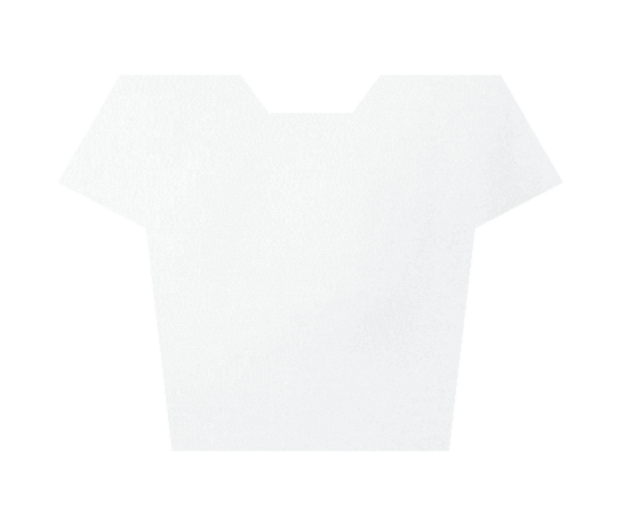
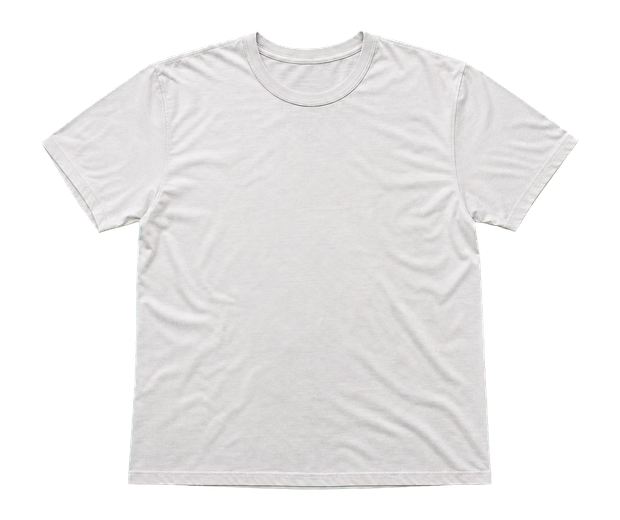
use realistic shirt asset

diff --git a/game.js b/game.js
@@ -10,6 +10,10 @@ const modalTitle = document.querySelector("#modalTitle");
 const modalMessage = document.querySelector("#modalMessage");
 const leaderboardOverlay = document.querySelector("#leaderboardOverlay");
 const leaderboardRows = document.querySelector("#leaderboardRows");
+const leaderboardMessage = document.querySelector("#leaderboardMessage");
+const leaderboardForm = document.querySelector("#leaderboardForm");
+const playerNameInput = document.querySelector("#playerName");
+const leaderboardSubmitBtn = document.querySelector("#leaderboardSubmitBtn");
 const leaderboardReturnBtn = document.querySelector("#leaderboardReturnBtn");
 const pedalButtons = [...document.querySelectorAll("[data-pedal]")];
 
@@ -98,62 +102,58 @@ const clamp = (value, min, max) => Math.max(min, Math.min(max, value));
 const lerp = (a, b, t) => a + (b - a) * t;
 const dist = (a, b) => Math.hypot(a.x - b.x, a.y - b.y);
 
-const leaderboardNames = [
-  "陈志强",
-  "王秀兰",
-  "刘建国",
-  "李桂英",
-  "张伟",
-  "赵丽华",
-  "周明远",
-  "吴春梅",
-  "孙国庆",
-  "郑晓芳",
-  "冯文斌",
-  "褚慧敏",
-  "蒋德胜",
-  "沈玉兰",
-  "韩志勇",
-  "杨秋霞",
-  "朱海峰",
-  "何秀珍",
-];
+const leaderboardUrl = "./data/leaderboard.json";
+let leaderboard = [];
+let submittedEntryId = null;
 
-function shuffled(items) {
-  const result = [...items];
-  for (let i = result.length - 1; i > 0; i -= 1) {
-    const j = Math.floor(Math.random() * (i + 1));
-    [result[i], result[j]] = [result[j], result[i]];
-  }
-  return result;
+function normalizeLeaderboard(data) {
+  const entries = Array.isArray(data?.entries) ? data.entries : [];
+  return entries
+    .filter(
+      (entry) =>
+        entry &&
+        typeof entry.id === "string" &&
+        typeof entry.name === "string" &&
+        Number.isFinite(entry.score),
+    )
+    .map((entry) => ({
+      id: entry.id.slice(0, 80),
+      name: entry.name.trim().slice(0, 20) || "匿名用户",
+      score: Math.max(0, Math.round(entry.score)),
+      createdAt: typeof entry.createdAt === "string" ? entry.createdAt : "",
+    }))
+    .sort((a, b) => b.score - a.score || a.createdAt.localeCompare(b.createdAt))
+    .slice(0, 100);
 }
 
-function makeLeaderboard(playerScore) {
-  const score = Math.max(0, Math.round(playerScore));
-  const maxOpponentScore = Math.max(0, score - 1);
-  const opponents = shuffled(leaderboardNames)
-    .slice(0, 9)
-    .map((name) => ({
-      name,
-      score: maxOpponentScore ? Math.floor(Math.random() * (maxOpponentScore + 1)) : 0,
-    }))
-    .sort((a, b) => b.score - a.score);
+async function loadLeaderboard() {
+  const response = await fetch(`${leaderboardUrl}?t=${Date.now()}`, { cache: "no-store" });
+  if (!response.ok) throw new Error(`读取排行榜失败（${response.status}）`);
+  return normalizeLeaderboard(await response.json());
+}
 
-  return [
-    { rank: 1, name: "当前玩家", score, player: true },
-    ...opponents.map((entry, index) => ({ ...entry, rank: index + 2, player: false })),
-  ];
+async function saveLeaderboard(entries) {
+  const response = await fetch(leaderboardUrl, {
+    method: "PUT",
+    headers: { "Content-Type": "application/json" },
+    body: JSON.stringify({ version: 1, updatedAt: new Date().toISOString(), entries }),
+  });
+  if (!response.ok) throw new Error(`保存排行榜失败（${response.status}）`);
+}
+
+function scoreQualifies(entries, score) {
+  return entries.length < 100 || score > entries[entries.length - 1].score;
 }
 
 function renderLeaderboard(rows) {
   const fragment = document.createDocumentFragment();
-  for (const row of rows) {
+  rows.forEach((row, index) => {
     const item = document.createElement("li");
-    item.className = `leaderboard-row${row.player ? " player" : ""}`;
+    item.className = `leaderboard-row${row.id === submittedEntryId ? " player" : ""}`;
 
     const rank = document.createElement("span");
     rank.className = "leaderboard-rank";
-    rank.textContent = row.rank === 1 ? "第1名" : String(row.rank);
+    rank.textContent = index === 0 ? "第1名" : String(index + 1);
 
     const name = document.createElement("span");
     name.textContent = row.name;
@@ -163,7 +163,7 @@ function renderLeaderboard(rows) {
 
     item.append(rank, name, score);
     fragment.append(item);
-  }
+  });
   leaderboardRows.replaceChildren(fragment);
 }
 
@@ -355,13 +355,76 @@ function hideModal() {
   nextBtn.hidden = true;
 }
 
-function showLeaderboard() {
-  renderLeaderboard(makeLeaderboard(game.score));
+async function showLeaderboard() {
   modalOverlay.classList.add("hidden");
   modalOverlay.setAttribute("aria-hidden", "true");
   leaderboardOverlay.setAttribute("aria-hidden", "false");
   leaderboardOverlay.classList.remove("hidden");
-  leaderboardReturnBtn.focus();
+  leaderboardRows.replaceChildren();
+  leaderboardForm.hidden = true;
+  leaderboardReturnBtn.hidden = true;
+  leaderboardMessage.textContent = "正在读取 Top 100…";
+
+  try {
+    leaderboard = await loadLeaderboard();
+    renderLeaderboard(leaderboard);
+    leaderboardReturnBtn.hidden = false;
+    if (scoreQualifies(leaderboard, game.score)) {
+      leaderboardMessage.textContent = `你的 ${game.score} 分进入 Top 100，请留下名字。`;
+      leaderboardForm.hidden = false;
+      playerNameInput.value = "";
+      playerNameInput.focus();
+    } else {
+      leaderboardMessage.textContent = `你的得分是 ${game.score}，暂未进入 Top 100。`;
+      leaderboardReturnBtn.focus();
+    }
+  } catch (error) {
+    leaderboardMessage.textContent = `${error.message}，请稍后重试。`;
+    leaderboardReturnBtn.hidden = false;
+    leaderboardReturnBtn.focus();
+  }
+}
+
+async function submitLeaderboardEntry(event) {
+  event.preventDefault();
+  const entry = {
+    id: crypto.randomUUID?.() || `${Date.now()}-${Math.random().toString(16).slice(2)}`,
+    name: playerNameInput.value.trim().slice(0, 20) || "匿名用户",
+    score: Math.max(0, Math.round(game.score)),
+    createdAt: new Date().toISOString(),
+  };
+  leaderboardSubmitBtn.disabled = true;
+  leaderboardReturnBtn.hidden = true;
+  leaderboardMessage.textContent = "正在保存成绩…";
+
+  try {
+    for (let attempt = 0; attempt < 3; attempt += 1) {
+      const current = await loadLeaderboard();
+      const updated = normalizeLeaderboard({ entries: [...current, entry] });
+      if (!updated.some((item) => item.id === entry.id)) {
+        leaderboard = current;
+        renderLeaderboard(leaderboard);
+        leaderboardMessage.textContent = "榜单刚刚发生变化，你的得分未能进入 Top 100。";
+        return;
+      }
+      await saveLeaderboard(updated);
+      const verified = await loadLeaderboard();
+      if (verified.some((item) => item.id === entry.id)) {
+        submittedEntryId = entry.id;
+        leaderboard = verified;
+        renderLeaderboard(leaderboard);
+        leaderboardForm.hidden = true;
+        leaderboardMessage.textContent = `${entry.name} 已成功上榜。`;
+        return;
+      }
+    }
+    throw new Error("成绩被同时提交的玩家覆盖");
+  } catch (error) {
+    leaderboardMessage.textContent = `${error.message}，请重新确认。`;
+  } finally {
+    leaderboardSubmitBtn.disabled = false;
+    leaderboardReturnBtn.hidden = false;
+  }
 }
 
 function hideLeaderboard() {
@@ -857,15 +920,9 @@ function drawCloth() {
   garmentCtx.clearRect(0, 0, garmentLayer.width, garmentLayer.height);
   garmentCtx.save();
   garmentCtx.translate(garmentLayer.width / 2, garmentLayer.height / 2);
-  drawGarmentPath(garmentCtx);
-  garmentCtx.clip();
 
   if (assets.garment.complete && assets.garment.naturalWidth) {
-    garmentCtx.drawImage(assets.garment, -280, -220, 560, 460);
-    garmentCtx.globalCompositeOperation = "multiply";
-    garmentCtx.fillStyle = `hsl(${game.garment.hue} 48% 68%)`;
-    garmentCtx.fillRect(-310, -260, 620, 520);
-    garmentCtx.globalCompositeOperation = "source-over";
+    garmentCtx.drawImage(assets.garment, -310, -260, 620, 520);
   }
 
   garmentCtx.strokeStyle = "#c9352c";
@@ -1139,6 +1196,7 @@ exitBtn.addEventListener("click", () => {
 });
 
 leaderboardReturnBtn.addEventListener("click", returnToStart);
+leaderboardForm.addEventListener("submit", submitLeaderboardEntry);
 
 nextBtn.addEventListener("click", () => {
   ensureAudio();